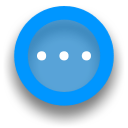
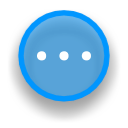
adds ellipsis button to bring back menu

Changed region(s): [[0.0625, 0.0312, 0.9375, 0.9688]]

diff --git a/css/style.css b/css/style.css
@@ -13,7 +13,8 @@ body {
 
 #btnMenu{
     margin: auto;
-    width: 5em;
+    width: 2em;
+    display: none;
 }
 
 #bIcon{
@@ -55,13 +56,13 @@ body {
         transform: translateY(0);
     }
     to {
-        transform: translateY(-35.5em);
+        transform: translateY(-20.5em);
     }
 }
 
 @keyframes maximize {
     from {
-        transform: translateY(-35.5em);
+        transform: translateY(-20.5em);
     }
     to {
         transform: translateY(0);
@@ -80,6 +81,27 @@ body {
         margin: auto;
         width: 18em;
     }
+    #btnMenu{
+        margin: auto;
+        width: 4em;
+    }
+    @keyframes minimize {
+        from {
+            transform: translateY(0);
+        }
+        to {
+            transform: translateY(-27.5em);
+        }
+    }
+
+    @keyframes maximize {
+        from {
+            transform: translateY(-27.5em);
+        }
+        to {
+            transform: translateY(0);
+        }
+    }
 }
 
 /*big sized screen*/
@@ -93,5 +115,26 @@ body {
     #bIcon{
         margin: auto;
         width: 25em;
+    }
+    #btnMenu{
+        margin: auto;
+        width: 5em;
+    }
+    @keyframes minimize {
+        from {
+            transform: translateY(0);
+        }
+        to {
+            transform: translateY(-35.5em);
+        }
+    }
+
+    @keyframes maximize {
+        from {
+            transform: translateY(-35.5em);
+        }
+        to {
+            transform: translateY(0);
+        }
     }
 }

diff --git a/js/aroundviewer.js b/js/aroundviewer.js
@@ -1,4 +1,3 @@
-var filSelBtnState = false;
 var passedUrl = '';
 
 function handleFiles(files){
@@ -43,18 +42,19 @@ function init(){
 
     btnEllipsis.addEventListener('click', function(){
          var fs = document.getElementById('fileSelector');
-        fs.style.animationName="maximize";
+         var bm = document.getElementById('btnMenu');
+        fs.style.animationName='maximize';
+        bm.style.display = 'none';
     });
 
     uploadBtn.addEventListener("click", function (e) {
         var fs = document.getElementById('fileSelector');
-        if(filSelBtnState)
-            fs.style.animationName="maximize";
-        else
-            fs.style.animationName="minimize";
-        filSelBtnState = !filSelBtnState;
+        var bm = document.getElementById('btnMenu');
 
-        if (fileElem && filSelBtnState) {
+        fs.style.animationName = "minimize";
+        bm.style.display = 'block';
+
+        if (fileElem) {
             fileElem.click();
         }
         e.preventDefault(); // prevent navigation to "#"
